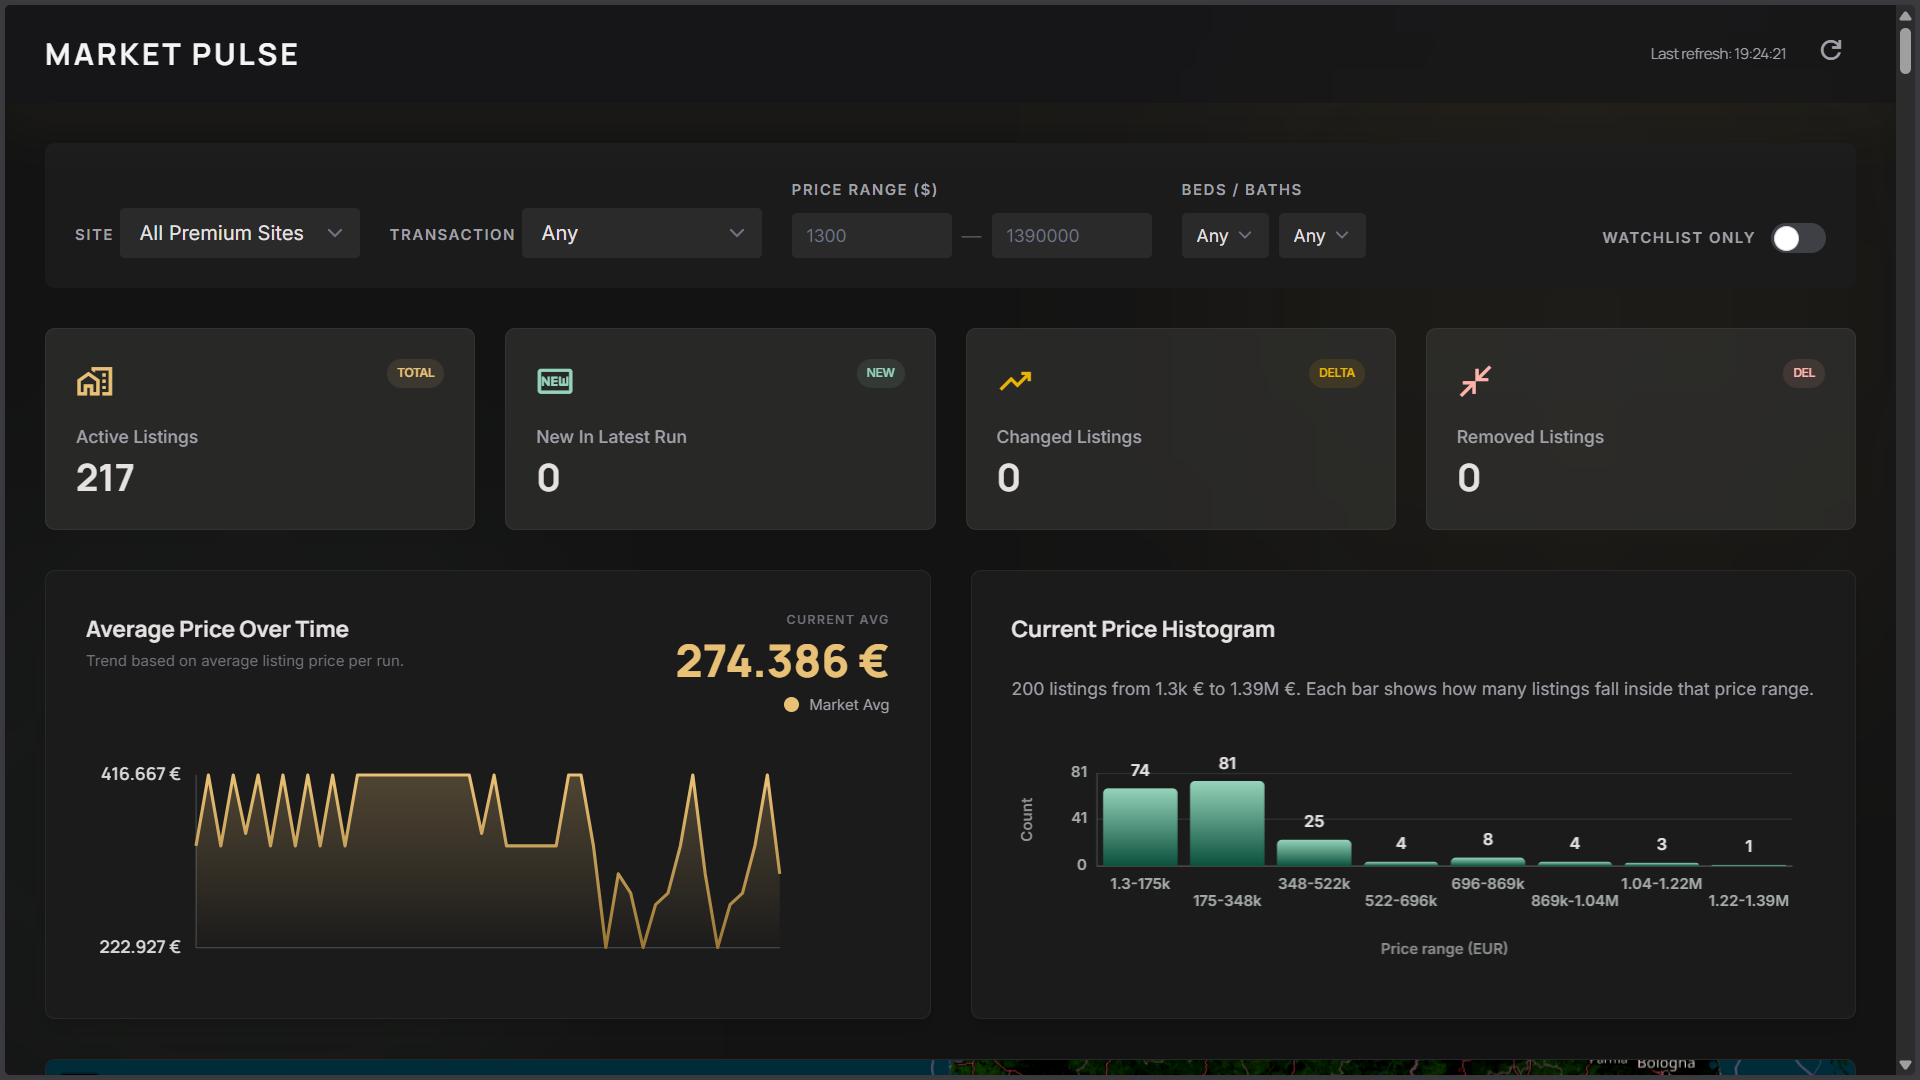
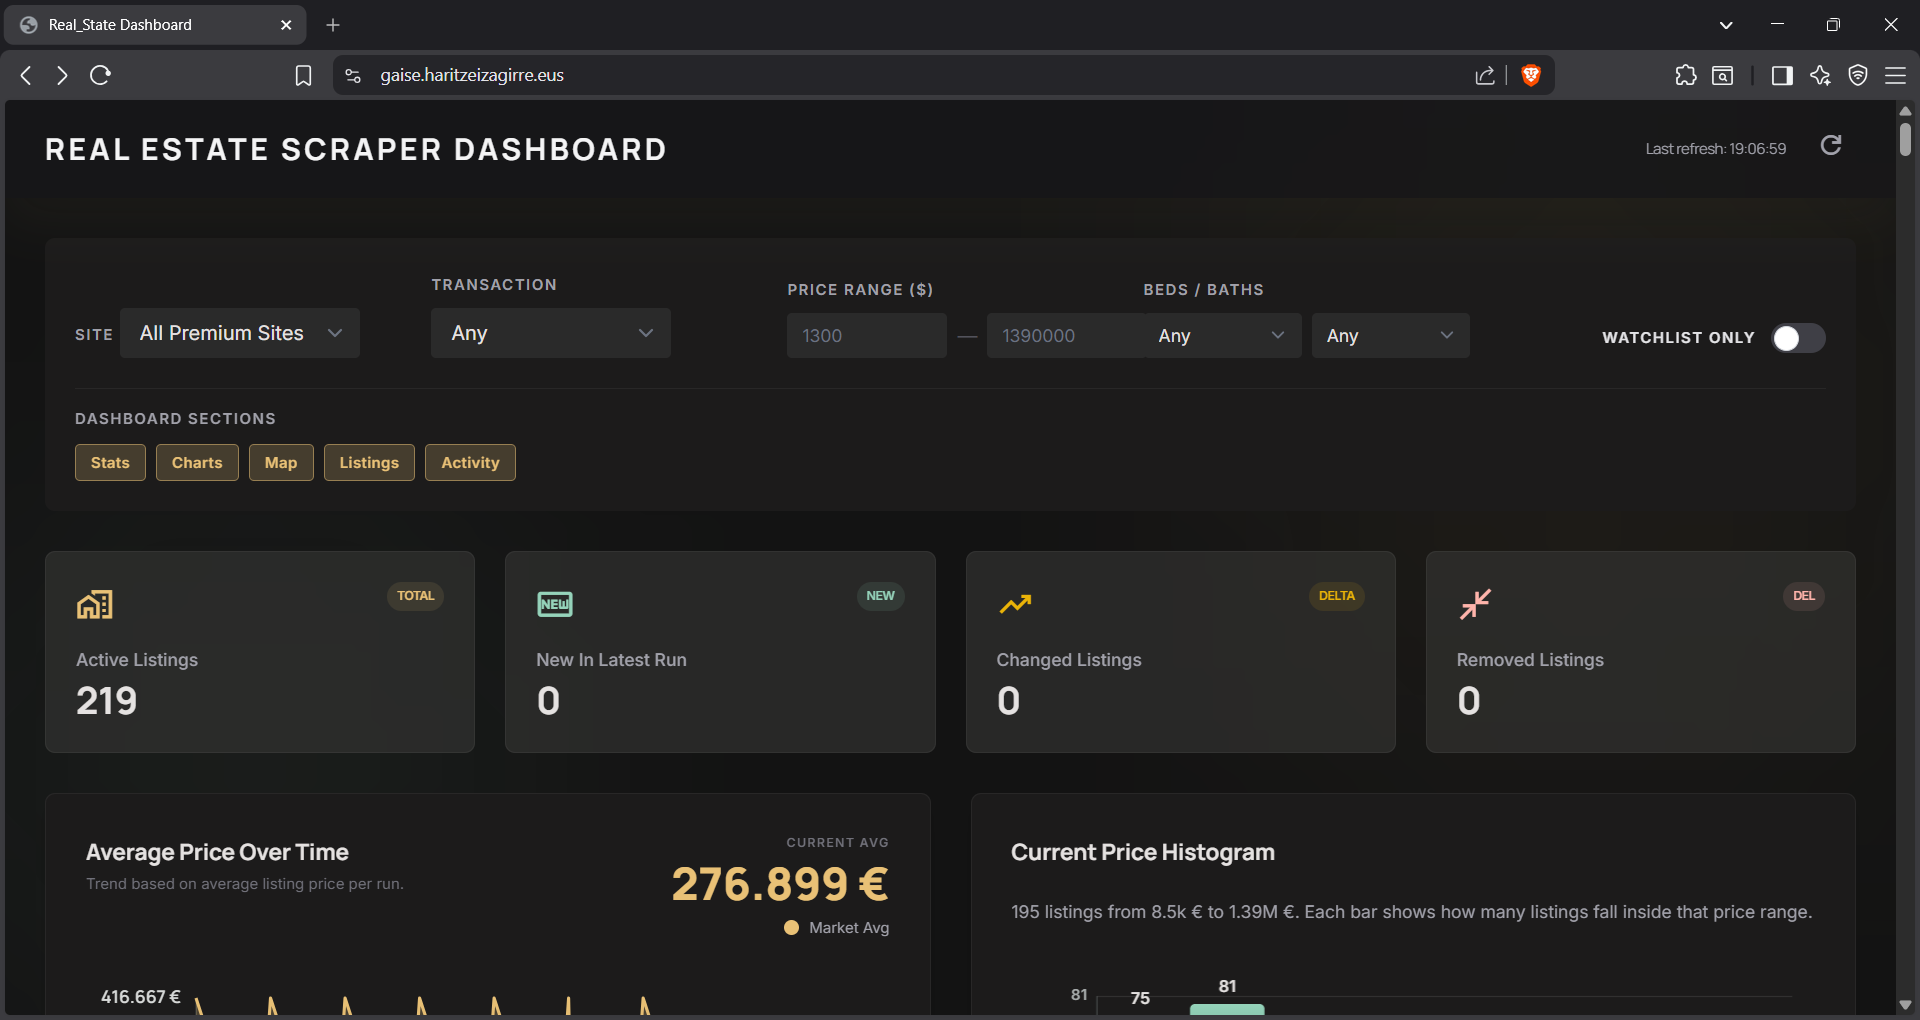
changes on readme

diff --git a/README.md b/README.md
@@ -63,10 +63,11 @@ Common adapter behavior:
 
 ### Dashboard (live domain)
 
-![Dashboard screenshot 1](screenshots/screenshots1.png)
-![Dashboard screenshot 2](screenshots/screenshots2.png)
-![Dashboard screenshot 3](screenshots/screenshots3.png)
-![Dashboard screenshot 4](screenshots/screenshots4.png)
+![Dashboard screenshot 1](screenshots/screenshot1.png)
+![Dashboard screenshot 2](screenshots/screenshot2.png)
+![Dashboard screenshot 3](screenshots/screenshot3.png)
+![Dashboard screenshot 4](screenshots/screenshot4.png)
+![Dashboard screenshot 5](screenshots/screenshot5.png)
 
 ### Telegram Bot Alerts 
 
@@ -88,6 +89,9 @@ Common adapter behavior:
 - It was so difficult to make an adapter to scrap all the info correctly on some websites especially in data such as the number of bedrooms or bathrooms due to the inconsistency of the data in those websites.
 - I improved the dashboard website's UI using Stitch MCP on Antigravity and also 
 making it responsive so that it can be used on devices such as mobile phones.
+
+![responsive screenshot 1](screenshots/screenshot_mb1.png)
+![responsive screenshot 1](screenshots/screenshot_mb2.png)
 
 ## Deployment Architecture
 
